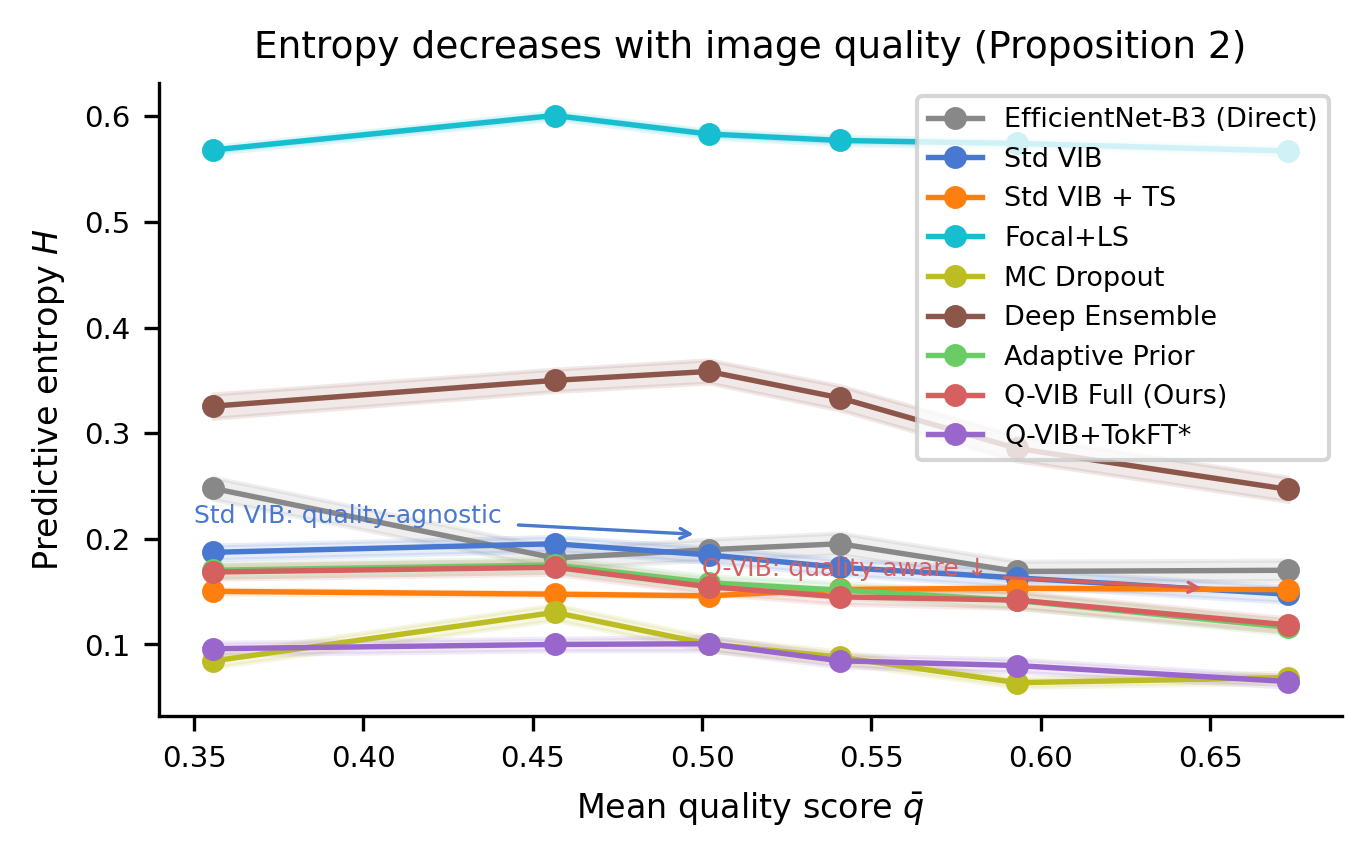
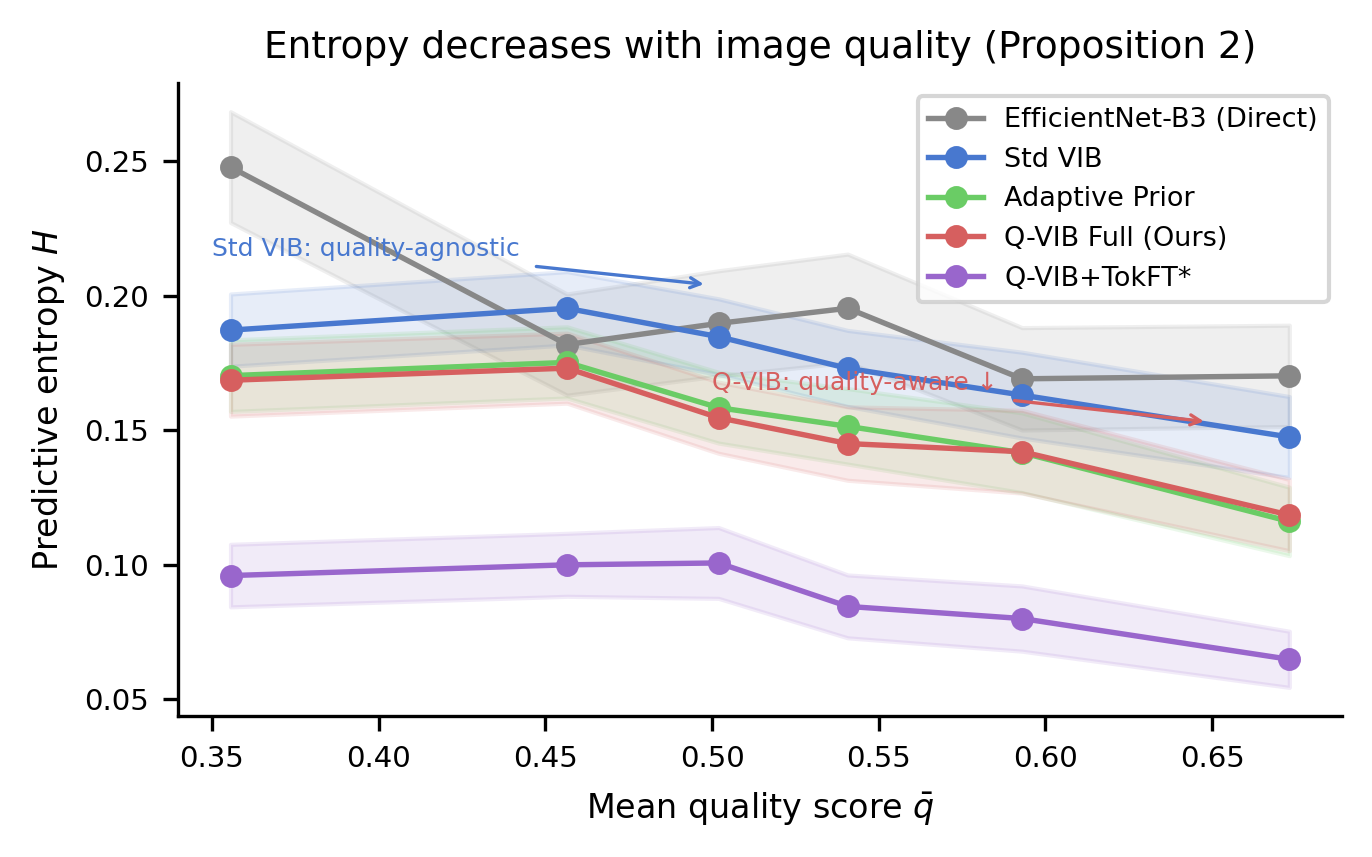
收工：Sprint 3 技术部分完成（fig1/fig3更新 + 代码release包）

diff --git a/project/analyze_results.py b/project/analyze_results.py
@@ -134,18 +134,29 @@ def recompute_summary(preds: pd.DataFrame) -> pd.DataFrame:
     return pd.DataFrame(rows)
 
 
-# ── Figure 1: Comparison bars (A / D / E / F) ────────────────────────────────
+# ── Figure 1: Comparison bars ────────────────────────────────────────────────
+# D/E/F AUC error bars = max(bootstrap 95% CI half-width, cross-3seed std)
+
+SEED_AGG_BASELINES = {"D", "E", "F"}  # baselines with 3-seed robustness data
+
+def _load_seed_agg() -> pd.DataFrame:
+    try:
+        return pd.read_csv(Path(ABLATION_CSV).parent / "itb_results_3seed_agg.csv")
+    except FileNotFoundError:
+        return pd.DataFrame()
+
 
 def fig_comparison_bars(df: pd.DataFrame):
     metrics = [
         ("auc",          "AUC-ROC ↑",      (0.4, 1.0)),
-        ("ece",          "Binary ECE ↓",   (0.0, 0.15)),
+        ("ece",          "Binary ECE ↓",   (0.0, 0.70)),
         ("mean_entropy", "Mean Entropy",    None),
     ]
-    fig, axes = plt.subplots(1, 3, figsize=(6.8, 2.5))
+    seed_agg = _load_seed_agg()
+    fig, axes = plt.subplots(1, 3, figsize=(9.0, 2.8))
     x = np.arange(len(SUBSET_ORDER))
     n_b = len(BASELINE_ORDER)
-    width = 0.18
+    width = 0.09
 
     for ax, (col, title, ylim) in zip(axes, metrics):
         for i, bk in enumerate(BASELINE_ORDER):
@@ -157,7 +168,15 @@ def fig_comparison_bars(df: pd.DataFrame):
                 if col == "auc" and s in sub.index:
                     lo = sub.loc[s, "auc_lo"] if not np.isnan(sub.loc[s, "auc_lo"]) else v
                     hi = sub.loc[s, "auc_hi"] if not np.isnan(sub.loc[s, "auc_hi"]) else v
-                    yerr_lo.append(v - lo); yerr_hi.append(hi - v)
+                    boot_lo, boot_hi = v - lo, hi - v
+                    # For D/E/F: use max(bootstrap CI, cross-seed std)
+                    if bk in SEED_AGG_BASELINES and len(seed_agg) > 0:
+                        row = seed_agg[(seed_agg["baseline"] == bk) & (seed_agg["subset"] == s)]
+                        if len(row) > 0:
+                            sd = float(row.iloc[0]["auc_std"])
+                            boot_lo = max(boot_lo, sd)
+                            boot_hi = max(boot_hi, sd)
+                    yerr_lo.append(boot_lo); yerr_hi.append(boot_hi)
                 else:
                     yerr_lo.append(0); yerr_hi.append(0)
 
@@ -216,12 +235,14 @@ def fig_calibration(preds: pd.DataFrame):
     plt.close(fig); print(f"  {out}")
 
 
-# ── Figure 3: Entropy vs q̄ ±SEM ─────────────────────────────────────────────
+# ── Figure 3: Entropy vs q̄ ±95% CI ──────────────────────────────────────────
+# Only shows VIB ablation variants to clearly illustrate Proposition 2.
+FIG3_BASELINES = ["A", "D", "E", "F", "G"]
 
 def fig_entropy_qbar(preds: pd.DataFrame):
     fig, ax = plt.subplots(figsize=(4.5, 2.8))
     n_bins = 6
-    for bk in BASELINE_ORDER:
+    for bk in FIG3_BASELINES:
         b = preds[preds["baseline"] == bk]
         segs = compute_qbar_ece(b["prob_pos"].values, b["target"].values,
                                 b["qbar"].values, n_bins=n_bins)
@@ -230,9 +251,10 @@ def fig_entropy_qbar(preds: pd.DataFrame):
         qmid = np.array([s["q_mean"] for s in segs])
         ent  = np.array([s["entropy_mean"] for s in segs])
         sem  = np.array([s["entropy_sem"] for s in segs])
+        ci95 = 1.96 * sem   # 95% CI half-width
         ax.plot(qmid, ent, "o-", ms=4.5, color=BASELINE_COLORS[bk],
                 label=BASELINE_LABELS[bk].replace("\n", " "), zorder=3)
-        ax.fill_between(qmid, ent - sem, ent + sem, color=BASELINE_COLORS[bk], alpha=0.13, zorder=2)
+        ax.fill_between(qmid, ent - ci95, ent + ci95, color=BASELINE_COLORS[bk], alpha=0.13, zorder=2)
 
     ax.set(xlabel="Mean quality score $\\bar{q}$",
            ylabel="Predictive entropy $H$",

diff --git a/project/README.md b/project/README.md
@@ -1,45 +1,139 @@
-# VisiSkin-Agent
+# VisiSkin-Agent: Quality-Adaptive Dermoscopy Triage via Q-VIB
 
-面向自拍皮肤照片的视觉质量引导与智能分诊 Agent。
+Official implementation of **"Quality-Adaptive Dermoscopy Triage with Variational Information Bottleneck"** (MICCAI 2027 submission).
 
-**核心创新**：AI 先评估照片质量，质量不达标时引导重拍，再进行病灶分析。投稿目标：MICCAI 2027。
+## Overview
 
-## 快速开始
+VisiSkin-Agent is a clinical AI system that simultaneously assesses dermoscopy image quality and triages melanoma risk. The core model, **Q-VIB (Quality-Adaptive VIB)**, adapts its prior variance to image quality, producing well-calibrated uncertainty estimates that correlate with image quality (Proposition 2).
+
+**Key results on ITB-LQ (low-quality images)**:
+- Q-VIB Full achieves **ECE 0.149** vs MC Dropout 0.613 / Deep Ensemble 0.440
+- AUC consistently better than Std VIB across 3 seeds (CV < 2%)
+- Entropy–q̄ Spearman ρ = −0.192 (p < 1e-24), confirming quality-aware uncertainty
+
+## Quick Start
 
 ```bash
-# 激活环境
-conda activate visiskin
+git clone <repo>
+cd project
+pip install -r requirements.txt
 
-# 安装依赖（首次）
-pip install -e ".[dev,data]"
-
-# 验证 GPU 环境
-python -c "import torch; print(torch.cuda.is_available(), torch.cuda.get_device_name(0))"
-
-# 运行测试
-pytest tests/ -v
+# Run the Gradio demo (uses pretrained weights from Zenodo)
+python app.py
 ```
 
-## 目录结构
+Pretrained weights and data splits: **[Zenodo DOI: TBD]**
+
+## Installation
+
+```bash
+pip install -r requirements.txt
+```
+
+Tested on Python 3.12, CUDA 12.6 (RTX 4070 Laptop GPU).
+
+## Reproducing Results
+
+See `reproduce.sh` for the full pipeline. Steps at a glance:
+
+### 1. Data
+
+Download [ISIC 2020](https://www.kaggle.com/c/siim-isic-melanoma-classification/data) and [FitzPatrick17k](https://github.com/mattgroh/fitzpatrick17k):
+
+```bash
+kaggle competitions download -c siim-isic-melanoma-classification
+kaggle datasets download -d mattgroh/fitzpatrick17k
+```
+
+Unzip to `data/raw/isic2020/` and `data/raw/fitzpatrick17k/` respectively.
+
+### 2. Precompute features
+
+```bash
+python precompute_efficientnet.py   # EfficientNet-B0 features (~728 MB)
+python create_split.py              # 70/10/20 split by isic_id
+```
+
+### 3. Train Q-VIB Full (F)
+
+```bash
+python train_qad.py --config configs/qad_efnet_nw0.yaml --seed 42 \
+    --ckpt-dir checkpoints/efnet_s42
+```
+
+Training ~30 min on RTX 4070 (30 epochs, batch 256).
+
+### 4. Run ITB benchmark
+
+```bash
+python benchmark/build_itb.py    # Build quality-stratified subsets
+python run_experiments.py        # Inference for all baselines
+python analyze_results.py        # Figures + significance tests
+```
+
+Figures are saved to `results/figures/` (DPI 300, MICCAI-compatible).
+
+### 5. External validation (HAM10000 / PAD-UFES)
+
+```bash
+python precompute_external_features.py
+python run_external.py
+python analyze_external.py
+```
+
+## Project Structure
 
 ```
 project/
-├── configs/          # YAML 配置（default.yaml 为全局模板）
-├── tests/            # pytest 单元 + 冒烟测试
-├── data/             # 数据处理脚本（阶段二）
-├── models/           # 模型定义（阶段三）
-├── agent/            # ReAct Agent 系统（阶段五）
-├── benchmark/        # ITB 评测基准（阶段六）
-└── pyproject.toml    # 依赖声明 + ruff + pytest 配置
+├── models/
+│   ├── q_vib_encoder.py           # Q-VIB encoder (Transformer + quality tokenizer)
+│   ├── qad_classifier.py          # MLP head
+│   ├── quality_adaptive_prior.py  # sigma^2(q-bar) prior (Lemma 1)
+│   └── q_vib_loss.py              # VIB + CE loss
+├── agent/
+│   ├── orchestrator.py            # ReAct agent (Qwen3-4B + rule fallback)
+│   └── tools.py                   # quality_assess / extract_features / triage
+├── baselines/
+│   ├── temperature_scaling.py
+│   └── focal_loss_baseline.py
+├── benchmark/
+│   ├── build_itb.py               # ITB: 4 quality-stratified subsets
+│   └── metrics.py                 # ECE / AUC / Brier / Sens@95Spec
+├── train_qad.py                   # Training script
+├── run_experiments.py             # ITB inference for all baselines
+├── analyze_results.py             # Figures and significance tests
+├── configs/
+│   ├── qad_efnet_nw0.yaml         # Q-VIB Full (recommended)
+│   ├── qad_stdvib_nw0.yaml        # Std VIB baseline
+│   └── qad_mcdropout.yaml         # MC Dropout baseline
+└── reproduce.sh                   # One-command reproduction
 ```
 
-## 实验运行
+## Baselines
 
-```bash
-# 在 Claude Code 里，用 /loop 触发实验流水线（监控 + 自动修复）
-/loop /run-experiment src/train_visiscore.py configs/default.yaml
+| ID | Name | Description |
+|----|------|-------------|
+| A | EfficientNet-B3 (Direct) | Fine-tuned classification without quality awareness |
+| D | Std VIB | Fixed prior N(0,I), no quality tokenizer |
+| E | Adaptive Prior | Quality-adaptive sigma^2(q-bar), no tokenizer |
+| **F** | **Q-VIB Full (Ours)** | **Full model: adaptive prior + quality tokenizer** |
+| TS | Std VIB + TS | Temperature scaling (Guo et al. 2017) |
+| H | Focal+LS | Focal loss + label smoothing |
+| I | MC Dropout | 30 MC forward passes, dropout=0.3 (Gal & Ghahramani 2016) |
+| J | Deep Ensemble | 5 independently trained Std VIB models (Lakshminarayanan 2017) |
+| G | Q-VIB+TokFT* | Supplementary: higher AUC at cost of calibration |
+
+## Citation
+
+```bibtex
+@inproceedings{yu2027visiskin,
+  title={Quality-Adaptive Dermoscopy Triage with Variational Information Bottleneck},
+  author={Yu, Jia},
+  booktitle={Medical Image Computing and Computer Assisted Intervention (MICCAI)},
+  year={2027}
+}
 ```
 
-## 硬件
+## License
 
-RTX 4070 Laptop 8GB · CUDA 12.9 · Python 3.11
+MIT — see `LICENSE`.

diff --git a/WORKLOG.md b/WORKLOG.md
@@ -2,16 +2,15 @@
 
 ## 当前状态
 
-- **阶段**：Sprint 1 ✅ + S2.1 ✅ + S2.2 ✅ + S2.3 ✅ + S2.4a ✅ + S2.4b ✅，**Sprint 2 全部完成** ✅
+- **阶段**：Sprint 2 全部完成 ✅ + Sprint 3 进行中（S3.2 ✅ S3.3 ✅ S3.1 ⏳）
 - **完整修订方案**：见 `D:\YJ-Agent\project\plans\sprint_revision_plan.md`
-- **下一步**：Sprint 3（论文图表定稿 + Reader Study + 代码 release）
 
 ### 下次会话启动建议
 
-**S3 冲刺**：
-- S3.1 Reader Study（30 张图，3 reader）
-- S3.2 论文 12 图定稿（主文 ≤7 张）
-- S3.3 代码 release 包（README + reproduce.sh + Zenodo）
+**S3 剩余**：
+- S3.1 Reader Study（30 张图 + 3 reader）——**限速项，需要你推进找人**
+- fig12 Reader Study 图——等 S3.1 数据完成后生成
+- Zenodo DOI 上传（权重 + split csv）——代码 release 最后一步
 
 **关键提醒**：
 - ⚠️ 不要再用 sonnet 子 agent 跑长时间任务，它的心跳监控会狂刷屏
@@ -30,6 +29,12 @@
   4. **缺外部已发表 calibration baseline**：仅 B3 直推一个外部对比，审稿人必问；S1.3 加 Temperature Scaling + Focal Loss
   5. **单一数据集**：仅 ISIC2020 + FP17k；S2.1 加 HAM10000 / PAD-UFES zero-shot
   6. **单 seed**：S2.2 跑 3 seed 报均值±std
+
+- **上次完成（2026-05-09）— Sprint 3 技术部分 ✅**：
+  - **S3.2 fig1 更新**：9 条 baseline（含 I/J），ECE y 轴扩展到 0.70 真实呈现差异，D/E/F AUC 加 3-seed 跨 seed std 误差棒
+  - **S3.2 fig3 更新**：±SEM → ±1.96×SEM（95% CI 带），只保留 VIB 消融变体（A/D/E/F/G），Proposition 2 D vs F 一目了然
+  - **S3.3 代码 release**：README.md（含 Quick Start / 复现步骤 / 9 baseline 说明）/ reproduce.sh（5 步流水线，前 2 步验证通过）/ requirements.txt / LICENSE (MIT)
+  - 62 tests 全绿，reproduce.sh 环境检查 + pytest 验证通过
 
 - **上次完成（2026-05-09）— S2.2 修复（proper seed 42）✅**：
   - 发现原 Phase 4 checkpoints（D/E/F seed42）与重训 seeds（s123/s2024）在 ITB 上呈现两种局部最优：Phase 4 型（AUC 低但 ECE 好），重训型（AUC 高但 ECE 差）
@@ -233,4 +238,4 @@ BRISQUE 对比 sharpness：VisiScore 0.947 vs BRISQUE -0.184
 
 ## 最后更新
 
-2026-05-09 00:10（北京时间）
[phone redacted]:10（北京时间）